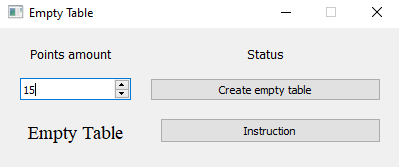
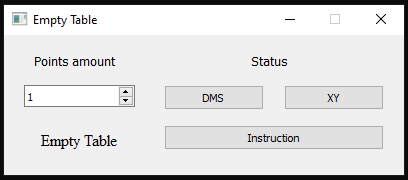
Update img file and .md file

diff --git a/Make empty table/README.md b/Make empty table/README.md
@@ -18,11 +18,17 @@ After run we have an interface:
 
 Input 15 (example)
 
-Click button "Create empty table" and select the name and path of the file
+Click button "DMS" or "XY" and select the name and path of the file
 
-Then you have a "your_name".xlsx file with a full table you want:
+Then you have a "your_name".xlsx file with a full table you want "DMS":
 
 ![Your output table](img/Table_ex.png)
+
+or
+
+You have a "your_name".xlsx file with a full table like that "XY":
+
+![Your output table](img/Table_ex_xy.png)
 
 It can be useful when you need copy this table to Word (doc or docx) file or AutoCAD dwg file
 
